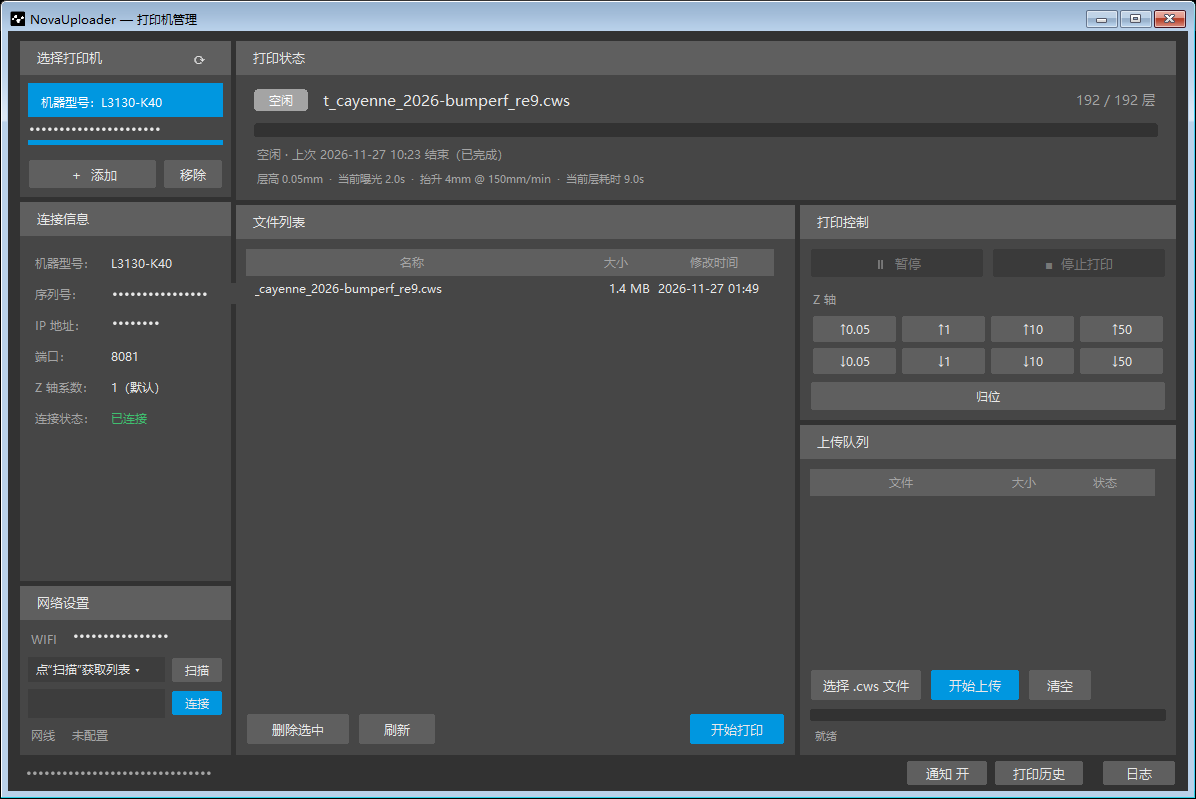
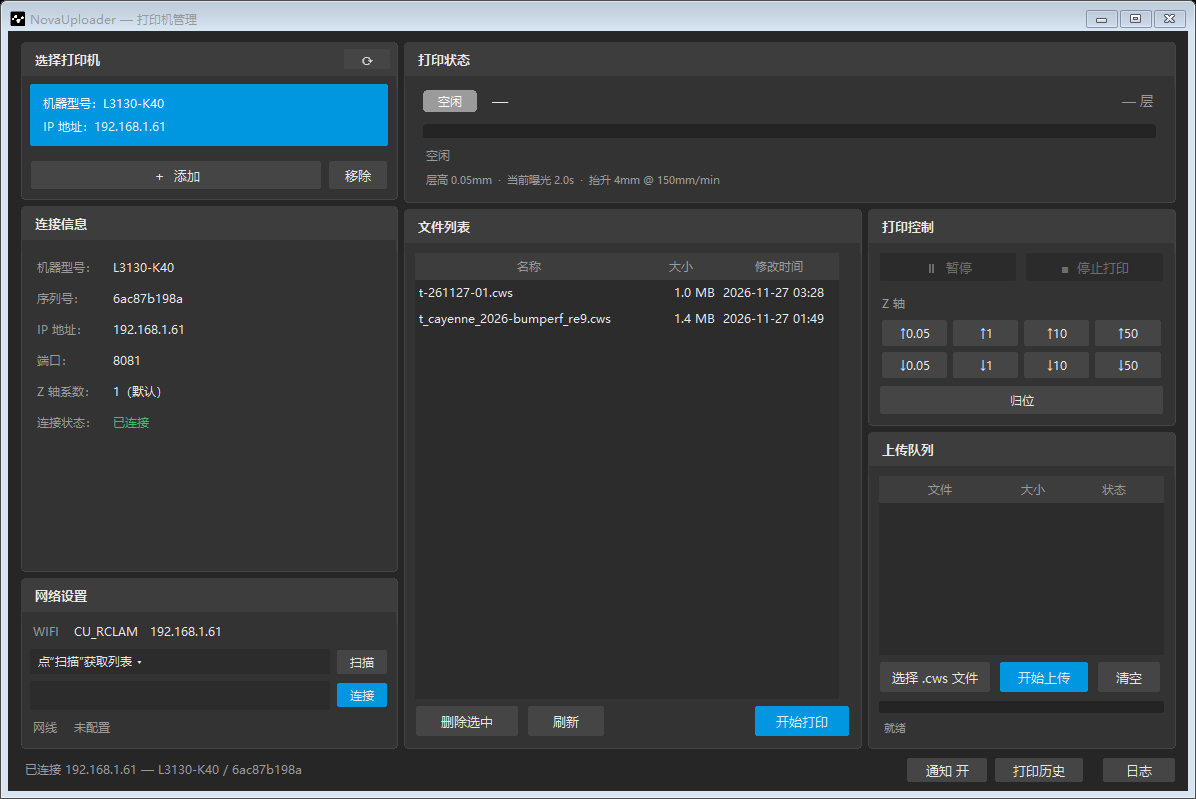
style: 桌面版界面重做配色与圆角（0.6.5）
页面底色加深到 #262626，卡片标题栏从 #5F5F5F 降到 #3D3D3D，卡片加 1px 描边；
卡片改为 Canvas 绘制的圆角（半径 10），标题栏上圆角下平直，右上角按钮迁移到 Canvas；
打印机选中行同步改为圆角；列表区做成凹陷面（#2C2C2C）；禁用按钮与滚动条滑块重新取色。
安卓端与 README 版本号同步到 0.6.5，assets/main.png 换成新版界面截图。

diff --git a/pc/NovaUploader.py b/pc/NovaUploader.py
@@ -49,7 +49,7 @@ CONFIG_PATH_LEGACY = os.path.join(APP_DIR, "printers.json")
 HISTORY_PATH = os.path.join(DATA_DIR, "history.json")
 HISTORY_LIMIT = 300
 
-APP_VERSION = "0.6.4"
+APP_VERSION = "0.6.5"
 
 # NovaMaker 的图标（64x64 PNG，内嵌以免打包后还要带外部文件）
 ICON_PNG_B64 = (
@@ -414,18 +414,19 @@ def fmt_duration(seconds):
 # ==================== 界面主题 ====================
 # 配色取自 NovaMaker 原版界面截图的实际采样值
 THEME = {
-    "bg":        "#323232",   # 页面底色
-    "card":      "#464646",   # 卡片正文
-    "header":    "#5F5F5F",   # 卡片标题栏
-    "btn":       "#5F5F5F",   # 按钮
-    "btn_hover": "#6E6E6E",
-    "btn_down":  "#4A4A4A",
-    "row":       "#3D3D3D",   # 未选中的列表行
-    "trough":    "#323232",   # 进度条槽
+    "bg":        "#262626",   # 页面底色
+    "card":      "#333333",   # 卡片正文
+    "header":    "#3D3D3D",   # 卡片标题栏
+    "btn":       "#454545",   # 按钮
+    "btn_hover": "#525252",
+    "btn_down":  "#393939",
+    "row":       "#2C2C2C",   # 未选中的列表行 / 凹陷面
+    "trough":    "#242424",   # 进度条槽
+    "line":      "#454545",   # 卡片描边 / 分隔线
     "accent":    "#0097E0",   # 强调蓝（选中项 / 进度条）
     "accent_hi": "#2AAEEC",
     "text":      "#E8E8E8",
-    "text_dim":  "#A4A4A4",
+    "text_dim":  "#9B9B9B",
     "ok":        "#3FBF6F",
     "warn":      "#E0A33C",
     "err":       "#E06C6C",
@@ -450,8 +451,8 @@ class RoundButton(tk.Canvas):
 
     def __init__(self, master, text="", command=None, width=None, height=34,
                  fill=None, fg=None, hover=None, radius=6, font_size=10,
-                 bold=False, s=1.0, padx=10):
-        bg = master.cget("bg")
+                 bold=False, s=1.0, padx=10, bg=None):
+        bg = bg or master.cget("bg")
         if width:
             w = int(width * s)
         else:
@@ -485,8 +486,8 @@ class RoundButton(tk.Canvas):
 
     def _color(self):
         if not self._enabled:
-            # 必须和卡片底色 #464646 拉开差距，否则禁用按钮会“消失”
-            return "#3A3A3A", "#787878"
+            # 必须和卡片底色拉开差距，否则禁用按钮会“消失”
+            return "#2B2B2B", "#6E6E6E"
         if self._inside:
             return self._hover, self._fg
         return self._fill, self._fg
@@ -672,7 +673,7 @@ class SlimScrollbar(tk.Canvas):
             top = max(0.0, bot - min_h)
         self._thumb = (top, bot)
         pad = max(1.0, 2.0 * self.s)
-        color = "#8E8E8E" if self._hover else "#6A6A6A"
+        color = "#7A7A7A" if self._hover else "#555555"
         round_rect(self, pad, top, w - pad, bot, (w - 2 * pad) / 2.0,
                    fill=color, outline="")
 
@@ -700,29 +701,86 @@ class SlimScrollbar(tk.Canvas):
 
 
 class Card(tk.Frame):
-    """带标题栏的卡片容器，标题栏颜色比正文略浅。"""
+    """圆角卡片：圆角底与标题栏都画在 Canvas 上，内容放在 body 里。
 
-    def __init__(self, master, title="", s=1.0, header_height=34):
-        super().__init__(master, bg=THEME["card"])
+    body 仍是普通 Frame，内部照常 pack/grid；Canvas 只负责外观，
+    所以不会影响原有的布局方式。
+    """
+
+    def __init__(self, master, title="", s=1.0, radius=10, header_height=34):
+        page = master.cget("bg")
+        super().__init__(master, bg=page)
         self.s = s
-        self.head = tk.Frame(self, bg=THEME["header"], height=int(header_height * s))
-        self.head.pack(fill="x")
-        self.head.pack_propagate(False)
-        self.title_label = tk.Label(self.head, text=title, bg=THEME["header"],
-                                    fg=THEME["text"], font=(FONT, 10), anchor="w")
-        self.title_label.pack(side="left", padx=int(14 * s))
-        self.body = tk.Frame(self, bg=THEME["card"])
-        self.body.pack(fill="both", expand=True)
+        self.radius = max(2, int(radius * s))
+        self.header_h = int(header_height * s)
+        self._title = title
+        self._hw = ()
+
+        self.canvas = tk.Canvas(self, bg=page, highlightthickness=0, bd=0)
+        self.canvas.pack(fill="both", expand=True)
+
+        self.body = tk.Frame(self.canvas, bg=THEME["card"])
+        self._body_item = self.canvas.create_window(0, 0, window=self.body, anchor="nw")
+        self.canvas.bind("<Configure>", lambda _e: self._relayout())
+
+    def add_header_widget(self, widget):
+        """把控件贴到标题栏右端。"""
+        item = self.canvas.create_window(0, 0, window=widget, anchor="e")
+        self._hw = self._hw + ((item, widget),)
+        self._relayout()
+        return widget
+
+    def _relayout(self):
+        c = self.canvas
+        w, h = c.winfo_width(), c.winfo_height()
+        if w <= 8 or h <= 8:
+            return
+        c.delete("deco")
+        pad, r = 1, self.radius
+        round_rect(c, pad, pad, w - pad, h - pad, r, fill=THEME["card"],
+                   outline=THEME["line"], width=1, tags="deco")
+
+        top = pad + self.header_h
+        if self.header_h:
+            # 标题栏：上圆角、下平直——先画大圆角矩形，再用同色矩形压平下缘
+            round_rect(c, pad, pad, w - pad, top + r, r,
+                       fill=THEME["header"], outline="", tags="deco")
+            c.create_rectangle(pad, top - 1, w - pad, top + r + 1,
+                               fill=THEME["header"], outline="", tags="deco")
+            c.create_line(pad + r, top + 0.5, w - pad - r, top + 0.5,
+                          fill=THEME["line"], tags="deco")
+            c.create_text(pad + int(14 * self.s), pad + self.header_h / 2.0,
+                          text=self._title, anchor="w", fill=THEME["text"],
+                          font=(FONT, 10, "bold"), tags="deco")
+
+        c.coords(self._body_item, pad + 1, top)
+        c.itemconfigure(self._body_item,
+                        width=max(1, w - 2 * pad - 2),
+                        height=max(1, h - top - pad - 1))
+        for item, widget in self._hw:
+            widget.update_idletasks()
+            c.coords(item, w - pad - int(6 * self.s), pad + self.header_h / 2.0)
+        c.tag_lower("deco")
+
+        # 让 fill="x" 的侧栏卡片按内容自适应高度（被拉伸的卡片不受影响）
+        need = top + self.body.winfo_reqheight() + pad + 1
+        if c.winfo_reqheight() != need:
+            c.configure(height=need)
 
 
 class PrinterRow(tk.Frame):
     """左侧打印机列表里的一行，选中时整行变强调蓝。"""
 
     def __init__(self, master, s, on_click):
-        super().__init__(master, bg=THEME["row"], cursor="hand2")
+        page = master.cget("bg")
+        super().__init__(master, bg=page, cursor="hand2")
         self.s = s
         self._on_click = on_click
         self._selected = False
+        self.radius = max(2, int(6 * s))
+        # 圆角底画在用 place 铺满的 Canvas 上，不参与布局
+        self._bgc = tk.Canvas(self, bg=page, highlightthickness=0, bd=0)
+        self._bgc.place(x=0, y=0, relwidth=1, relheight=1)
         pad = int(10 * s)
         self.t1 = tk.Label(self, text="", bg=THEME["row"], fg=THEME["text"],
                            font=(FONT, 9), anchor="w")
@@ -730,8 +788,18 @@ class PrinterRow(tk.Frame):
         self.t2 = tk.Label(self, text="", bg=THEME["row"], fg=THEME["text_dim"],
                            font=(FONT, 9), anchor="w")
         self.t2.pack(fill="x", padx=pad, pady=(0, int(8 * s)))
-        for w in (self, self.t1, self.t2):
+        for w in (self, self.t1, self.t2, self._bgc):
             w.bind("<Button-1>", self._click)
+        self.bind("<Configure>", lambda _e: self._paint())
+
+    def _paint(self):
+        c = self._bgc
+        w, h = self.winfo_width(), self.winfo_height()
+        c.delete("all")
+        if w <= 4 or h <= 4:
+            return
+        fill = THEME["accent"] if self._selected else THEME["row"]
+        round_rect(c, 0, 0, w, h, self.radius, fill=fill, outline="")
 
     def _click(self, _e):
         self._on_click(self)
@@ -741,9 +809,9 @@ class PrinterRow(tk.Frame):
         bg = THEME["accent"] if selected else THEME["row"]
         fg1 = "#FFFFFF" if selected else THEME["text"]
         fg2 = "#E3F4FD" if selected else THEME["text_dim"]
-        self.configure(bg=bg)
         self.t1.configure(text=line1, bg=bg, fg=fg1)
         self.t2.configure(text=line2, bg=bg, fg=fg2)
+        self._paint()
 
 
 class Toast(tk.Toplevel):
@@ -1011,7 +1079,7 @@ class App(tk.Tk):
         self.option_add("*TCombobox*Listbox.foreground", THEME["text"])
         self.option_add("*TCombobox*Listbox.selectBackground", THEME["accent"])
         self.option_add("*TCombobox*Listbox.selectForeground", "#FFFFFF")
-        style.configure("Dark.Treeview", background=THEME["card"], fieldbackground=THEME["card"],
+        style.configure("Dark.Treeview", background=THEME["row"], fieldbackground=THEME["row"],
                         foreground=THEME["text"], borderwidth=0, relief="flat",
                         rowheight=int(26 * s), font=(FONT, 9))
         style.configure("Dark.Treeview.Heading", background=THEME["header"],
@@ -1069,8 +1137,9 @@ class App(tk.Tk):
 
         card_p = Card(side, "选择打印机", s)
         card_p.pack(fill="x")
-        RoundButton(card_p.head, text="⟳", width=28, height=22, s=s, font_size=10,
-                    command=self._refresh_all).pack(side="right", padx=int(8 * s), pady=int(6 * s))
+        card_p.add_header_widget(
+            RoundButton(card_p.canvas, text="⟳", width=28, height=22, s=s, font_size=10,
+                        bg=THEME["header"], command=self._refresh_all))
 
         self.rows_box = tk.Frame(card_p.body, bg=THEME["card"])
         self.rows_box.pack(fill="x", padx=int(8 * s), pady=int(8 * s))

diff --git a/android/src/com/rclam/novactl/MainActivity.java b/android/src/com/rclam/novactl/MainActivity.java
@@ -40,7 +40,7 @@ import java.util.concurrent.atomic.AtomicBoolean;
 public class MainActivity extends Activity {
 
     /** 与桌面版 NovaUploader 同代，便于两边对照。 */
-    private static final String APP_VERSION = "0.6.4";
+    private static final String APP_VERSION = "0.6.5";
     private static final int PORT = 8081;
     private static final int POLL_MS = 3000;
     private static final int TIMEOUT_MS = 5000;

diff --git a/README.md b/README.md
@@ -2,7 +2,7 @@
 
 **简体中文** | [English](README.en.md)
 
-![version](https://img.shields.io/badge/version-0.6.4-blue)
+![version](https://img.shields.io/badge/version-0.6.5-blue)
 ![platform](https://img.shields.io/badge/platform-Windows-blue)
 ![python](https://img.shields.io/badge/python-3.9%2B-3776AB)
 ![license](https://img.shields.io/badge/license-MIT-green)

diff --git a/README.en.md b/README.en.md
@@ -2,7 +2,7 @@
 
 [简体中文](README.md) | **English**
 
-![version](https://img.shields.io/badge/version-0.6.4-blue)
+![version](https://img.shields.io/badge/version-0.6.5-blue)
 ![platform](https://img.shields.io/badge/platform-Windows-blue)
 ![python](https://img.shields.io/badge/python-3.9%2B-3776AB)
 ![license](https://img.shields.io/badge/license-MIT-green)
